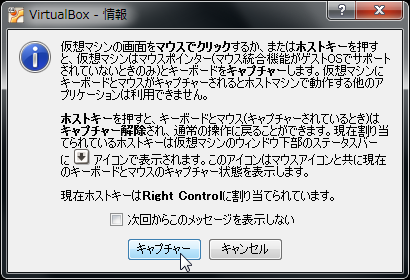
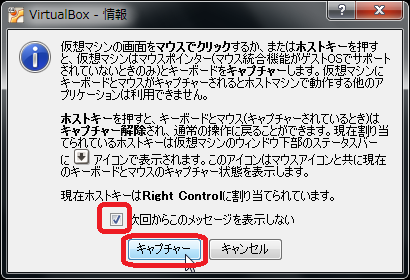
キャプチャの画面を赤四角で強調。Right Ctrl の図の追加

Changed region(s): [[0.2341, 0.7143, 0.5268, 0.9714]]

diff --git a/_includes/enju_install_vm/install.md b/_includes/enju_install_vm/install.md
@@ -148,15 +148,11 @@ Enju仮想マシンを起動し，Ubuntuにログインします。
 
    ![](assets/images/image_install_034_1.png)
    
-3. Ubuntuのプロンプトが表示されていることを確認します。      
-
-   ![](assets/images/image_install_034_3.png)
-   
-3. 入力を仮想マシンに切り替わっていることを右下を見て確認します。緑の矢印となっていれば切り替っています。
+3. Ubuntuのプロンプトが表示されていることを確認します。また，入力が仮想マシンに切り替わっていることを右下を見て確認します。![](assets/images/image_install_right_ctrl_m.png)（緑の矢印）となっていれば切り替っています。
 
    ![](assets/images/image_install_034_4.png)
    
-4. 入力を仮想マシンに切り替わっていないときは、右の［Ctrl］を押し，［キャプチャー］をクリックして入力を仮想マシンに切り替えます。
+4. ![](assets/images/image_install_right_ctrl_g.png)（グレーの矢印）となっている場合は、右の［Ctrl］キーを押し入力を仮想マシンに切り替えます。「仮想マシンの画面を・・・」という画面が出た場合は，「次回からこのメッセージを表示しない」にチェックをし，［キャプチャー］をクリックします。
 
    ![](assets/images/image_install_034_2.png)
 
